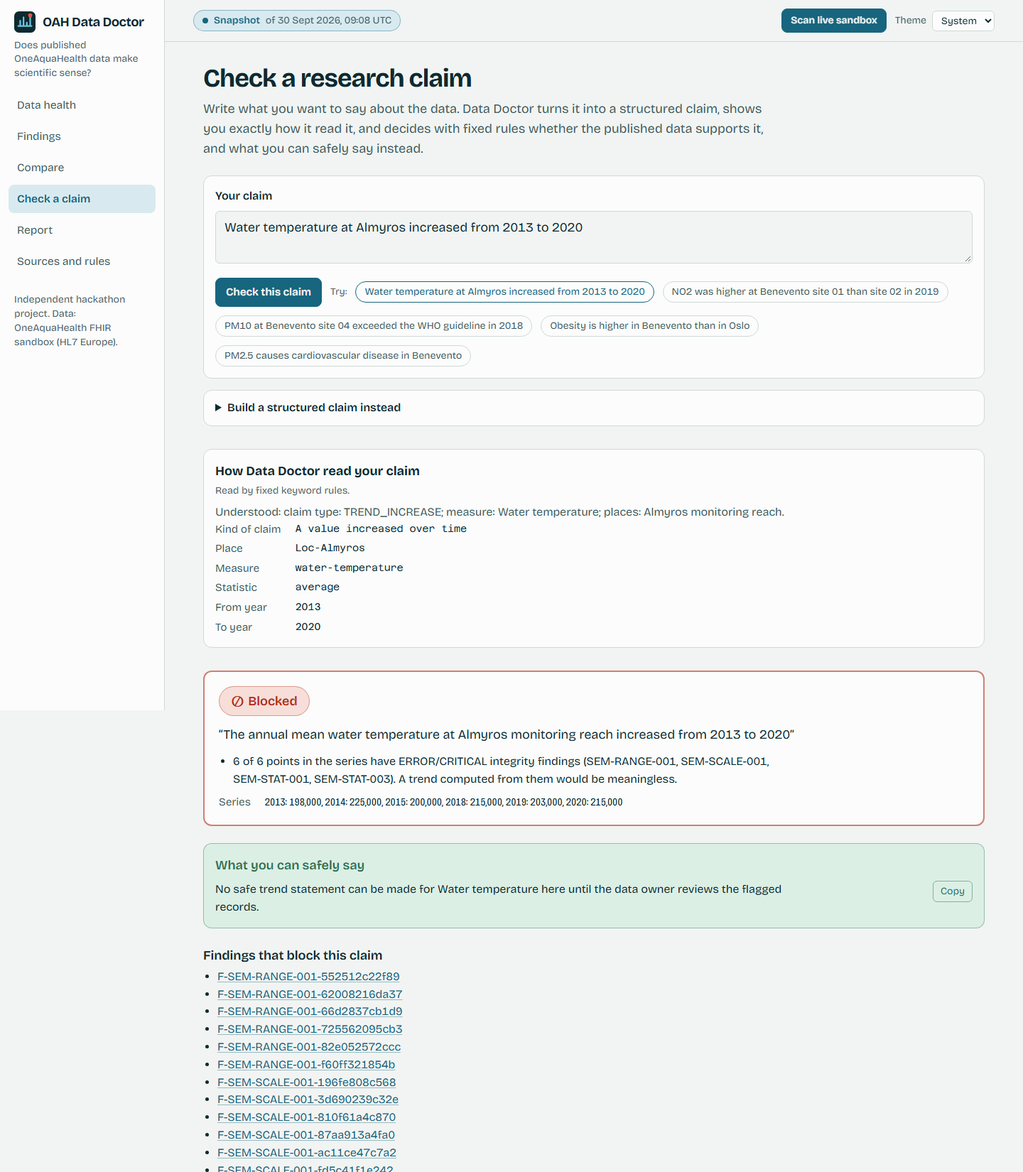
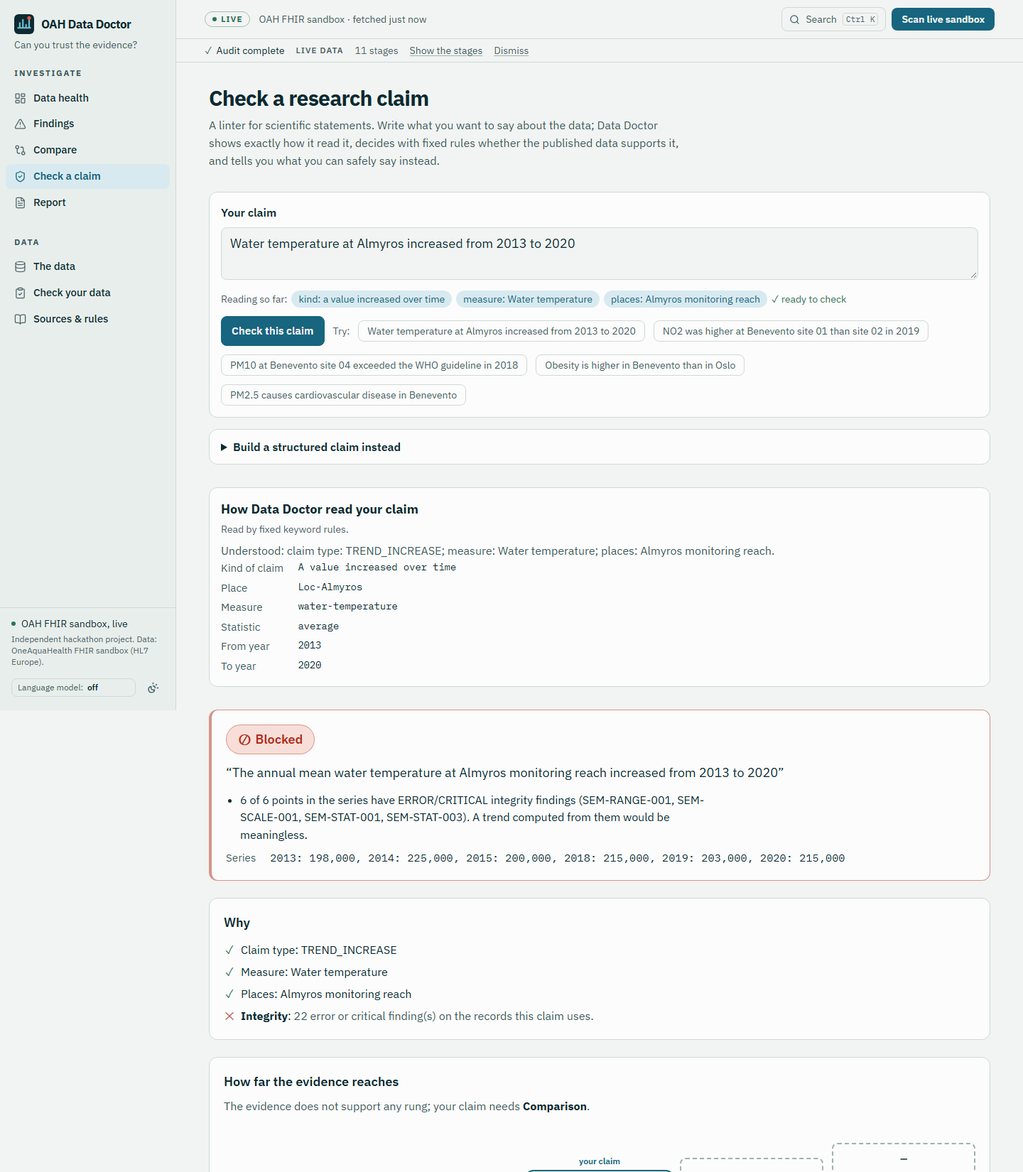
docs: final hardening: demo script, status, synced UI references
- DEMO_SCRIPT.md rewritten against the current screens: one story from the
  FHIR pass / Data Doctor flag to the report, about 4 minutes, language
  model off, exact chip and section names, words to avoid.
- STATUS.md: verification log of 2026-10-01 (tests, live and snapshot
  acceptance, live audit, hero record, reproducibility, no-model runs).
- 07: current Devpost requirements; the data-licence question is recorded
  as an open human decision, with a do-not-push note.
- README and AI_POLICY: the model control is in the sidebar; the evidence
  chain is described. README screenshots retaken from the current UI.

diff --git a/docs/DEMO_SCRIPT.md b/docs/DEMO_SCRIPT.md
@@ -1,26 +1,47 @@
-# Demo script (3–5 minutes)
+# Demo script (about 4 minutes)
 
-Setup: `python tasks.py run` (or `DD_SOURCE=snapshot` for a guaranteed offline demo). Browser at http://127.0.0.1:8321, 1440 px
-wide, light theme. Numbers on screen are computed; read them from the screen, do not memorise them.
+One story, in this order: **valid structure → scientific problem → proof → downstream impact → comparability → claim
+safety → report.** Start with the contradiction. No team introduction, logo, login, architecture or AI model on screen.
+
+Numbers in the "Say" column are what the screens showed on 2026-10-01 (live audit and snapshot gave the same results). They
+are computed on every scan, so **read them from the screen**; if a number differs, say what the screen says.
+
+## Before recording
+
+1. Start with the language model off, so nothing on screen depends on it:
+   `DD_LLM_PROVIDER=none python tasks.py run` (live, falls back to the snapshot automatically), or
+   `DD_SOURCE=snapshot DD_LLM_PROVIDER=none python tasks.py run` for a guaranteed offline take.
+2. Browser at http://127.0.0.1:8321, window 1440 × 900, zoom 100 %, dark theme. Wait until the strip under the top bar
+   says "Audit complete", then select **Dismiss**.
+3. Open a second tab on the scale finding of the same record: **Findings** → Rule **SEM-SCALE-001** → *Mean and median
+   differ by orders of magnitude* for *Water temperature, Almyros monitoring reach, 2013*. Go back to the first tab.
+
+## Script
 
 | Time | Screen | Say | Do |
 |---|---|---|---|
-| 0:00 | Data health | "This is a real record from the OneAquaHealth FHIR sandbox: a 2013 annual water temperature of 198,000 °C. The server's own FHIR validator says 'No issues detected'. FHIR checks that data has the right shape. Data Doctor checks whether it can be true." | Point at the two verdicts |
-| 0:25 | Magnitude ruler | "On a log scale the median, 19.8 °C, sits four decades away from the minimum, mean and maximum. Only the median is physically possible. A median can never lie outside its own minimum and maximum." | Hover the ruler |
-| 0:45 | Readout strip | "Across the sandbox, every official observation passes the server's validation. Data Doctor flags this many as unsafe to use as published." | Point at the readouts |
-| 1:00 | Finding detail | "Every finding shows the rule, the exact FHIRPath, the values, the constraint, and a confidence. Root cause: unknown. We never guess why." | Open the evidence |
-| 1:20 | Lineage | "The same numbers are already in the Implementation Guide's source spreadsheet, row by row. The problem predates FHIR conversion, which is exactly what the data owner needs to know." | Scroll to "Where these values first appear" |
-| 1:40 | Impact trace | "What would this record contaminate? The trace lists exactly which data sets, annual series, comparisons and claims use it. We only show what we actually compute; we never estimate." | Scroll to the trace |
-| 2:00 | Findings | "It is not one record. Filter by critical: impossible temperatures, pH values above 14, conductivity above that of brine. And some things FHIR can never know: PM2.5 above PM10 at the same site, although PM2.5 is part of PM10." | Click Critical; search "PM2.5" |
-| 2:30 | Compare | "Can we compare obesity in Benevento with Oslo? Women aged 35 to 74 against adults aged 18 to 29: not comparable. These are different people. Here are the Oslo cohorts that do overlap." | Pick the example chip |
-| 3:00 | Check a claim | "A researcher writes: water temperature at Almyros increased from 2013 to 2020. Blocked: every point in the series is broken. PM10 at Benevento site 04 exceeded the WHO guideline in 2018: supported, with the exact ratio and a caveat on data coverage. And 'PM2.5 causes cardiovascular disease': unsupported, and here is what you can say instead." | Use the example chips |
-| 3:40 | Report | "Everything exports as FHIR OperationOutcome, validated against R4, plus a researcher report and a table of what this data can and cannot support." | Open the HTML report |
-| 4:00 | Close | "Deterministic rules, no AI deciding anything, read-only access, every number computed, live or snapshot always labelled. Data Doctor: FHIR tells you whether data is shaped correctly; we tell you whether it makes sense." | Back to Data health |
+| 0:00–0:20 | **Data health** (`/`), top | "This is real OneAquaHealth data: the 2013 annual water temperature of the Almyros stream in Crete. Its average is 198,000 degrees Celsius. The FHIR server's own validator: no issues detected. Data Doctor: four findings on the same record. FHIR checks the shape. We check whether the evidence can be true." | Point at the headline, then at the two verdict panels: *FHIR server's own validator ✓ No issues detected during validation* and *OAH Data Doctor: 4 findings* |
+| 0:20–1:00 | **Data health**, *Dataset status*; then the **finding** page | "And it is not one record. 260 of 385 official records can be used as published. 125 are flagged, and all 125 pass the server's validation. Let's open the evidence. Minimum 185,000, maximum 211,000, and a median of 19.8. A median is the middle value of the same data. It can never be below its own minimum." | Scroll to *Dataset status*; point at *Flagged, yet server-valid: 125 of 125*. Scroll back up, select **Open the evidence for this record**. Point at step 1 *Observed* of the evidence chain |
+| 1:00–1:40 | **Finding** (SEM-STAT-001), *Evidence chain*; second tab (SEM-SCALE-001) | "Minimum divided by median: 9,343. The rule says minimum ≤ median ≤ maximum; here 19.8 is below 185,000, so it does not hold. Root cause: unknown. We never guess, and we never correct a value. On the same record, 198,000 divided by 19.8 is exactly 10,000, ten to the fourth. That fits a scale error, and we label it a hypothesis. The same numbers are in the Implementation Guide's source spreadsheet: the problem predates FHIR." | Point at steps 2–6. Switch to the second tab: point at *average / median = 198,000 / 19.8 = 10,000* and *exactly 10⁴*, then *Possible explanations, not verified*. Scroll to *Where these values first appear* (line 125) |
+| 1:40–2:10 | Same page, **What this affects** | "What does this record contaminate? Within the analyses Data Doctor computes, it feeds one data set, one indicator profile, two annual series, one comparison and two published claims. We show only dependencies we actually compute. Nothing is estimated." | Scroll to *What this affects*; select the claim box *median water temperature …*; point at *Depends on* and *Used by* |
+| 2:10–2:50 | **Compare** (`/compare`) | "Can obesity in Benevento be compared with Oslo? Women aged 35 to 74 against adults aged 18 to 29. Unit, period and aggregation are direct; measure and method are conditional; population is not comparable. These are different people. What you can do instead: compare with the Oslo cohorts whose ages overlap. And Almyros 2013 against 2014: comparable in principle, but blocked until the data owner reviews the records." | Select the chip *Obesity prevalence: Benevento monitoring site 01, Female, 35-74 y, 2024 vs Nordre Aker, 18-29 y, 2024*; point down the *Comparability matrix*, then *What you can do instead*. Select the chip *Water temperature: Almyros monitoring reach, 2013 vs … 2014* → *Blocked by integrity findings* |
+| 2:50–3:30 | **Check a claim** (`/claims`) | "Now a researcher's sentence. 'Water temperature at Almyros increased from 2013 to 2020.' Blocked: the series is built on flagged records, so no safe trend statement can be made yet. 'PM2.5 causes cardiovascular disease in Benevento.' Unsupported: the evidence reaches description; the claim needs causation. And here is what you can safely say instead." | Select the example *Water temperature at Almyros increased from 2013 to 2020*; point at *Blocked* and *What you can safely say*. Select *PM2.5 causes cardiovascular disease in Benevento*; point at the evidence ladder and *What you can safely say* |
+| 3:30–4:00 | **Report** (`/report`) | "Everything ends in an evidence integrity report: dataset, source, live or snapshot, audit time, every rule applied, and provenance down to the record hash. It exports as FHIR OperationOutcome, validated against R4. The same audit runs offline from a sha256-verified snapshot and gives the same findings. Deterministic rules, read-only, no AI deciding anything. FHIR tells you the data is well formed. Data Doctor tells you whether it makes scientific sense." | Point at the header (*Dataset, Source, Mode, Audit timestamp*), the contents list, then scroll to *7 Provenance* and *9 Technical appendix* |
 
-## Fallback path
+Narration is about 410 words: about 3 minutes of speech at 140 words a minute, plus about 45 seconds of clicking, scrolling
+and pauses, so about 4 minutes. **Not yet rehearsed with a stopwatch**: time one take and trim the 1:00–1:40 segment first if it
+runs long.
 
-- If the sandbox is down: the app shows the latest verified snapshot with a banner, and the script is unchanged. Say
-  "we are on the verified snapshot from <date>".
-- If the browser fails: `python tools/oah_audit.py audit --source snapshot` prints the full summary; open
-  `/api/reports/report.html` or `docs/GATE0_REPORT.md`.
-- Pre-recorded screenshots: `docs/img/`.
+## Words to use and to avoid
+
+- Say "flagged", "cannot all be right as published", "root cause unknown", "consistent with a scale error (hypothesis)".
+- Never say "the correct value is 19.8 °C", "the data is corrupted", "a typo", or that Data Doctor "fixed" anything.
+- Never say "AI found" or "AI decided": no model decides a finding or a verdict. Keep the language model off in the recording.
+
+## Fallback
+
+- **Sandbox down:** the app opens on the latest verified snapshot and says so in the top bar ("Snapshot", capture time,
+  "sha256 verified") with a banner. The script is unchanged; say "we are on the verified snapshot from <date>".
+- **Browser fails:** `python tools/oah_audit.py audit --source snapshot` prints the full summary (findings by rule, the
+  anchor's values, 125/125 server-valid); `/api/reports/report.html` opens the report.
+- **Screenshots:** `docs/img/`.

diff --git a/docs/STATUS.md b/docs/STATUS.md
@@ -1,44 +1,77 @@
 # Status
 
-Updated 2026-09-30. Numbers are in docs/numbers.json (rendered from the snapshot) and docs/EVALUATION.md.
+Updated 2026-10-01 (final hardening). Rendered numbers are in docs/numbers.json (from the committed snapshot) and
+docs/EVALUATION.md; the verification log below records what was run today and what it returned.
 
 ## Phases
 
 | Phase | State | Evidence |
 |---|---|---|
 | Discovery D1–D8 | Done | docs/DISCOVERY.md (requests, timestamps, excerpts) |
-| P0 Repo, tooling, Gate 0 | Done, **human sign-off pending** | docs/GATE0_REPORT.md: the gate criterion (≥ 10 distinct official resources with ERROR/CRITICAL findings) and the independent re-derivation of the 20 samples are printed there. Needs a human verdict per sample (≥ 80 % true positives) |
+| P0 Repo, tooling, Gate 0 | Done, **human sign-off pending** | docs/GATE0_REPORT.md: gate criterion met (123 distinct official resources with ERROR/CRITICAL findings, threshold 10); 20 of 20 samples re-derived from the raw JSON by separate code. Needs a human verdict per sample (≥ 80 % true positives) |
 | P1 Ingestion and normalisation | Done | Read-only async client, paging, retry, SQLite cache, verified snapshots, live/snapshot/auto; tests |
-| P2 Rules engine | Done | Every rule in docs/04_RULES_CATALOG.md, tests first, positive/negative/edge per rule, property tests; anchor fires SEM-STAT-001, SEM-STAT-003, SEM-SCALE-001, SEM-RANGE-001 |
+| P2 Rules engine | Done | Every rule in docs/04_RULES_CATALOG.md, tests first, positive/negative/edge per rule, property tests |
 | P3 Dependency graph and trace | Done | Exact trace for the anchor; counts change when data change (tested) |
 | P4 Comparability | Done | Eight dimensions; golden cases pass |
-| P5 Claim guardrail | Done | Five claim types; every verdict path tested; reasons, trace, blocking findings, safe wording |
+| P5 Claim guardrail | Done | Five claim types; every verdict path tested; evidence ladder computed by the engine |
 | P6 Reporting and FHIR export | Done | OperationOutcome valid against the R4 schema and HAPI (docs/VALIDATION.md); JSON, Markdown, HTML, support table |
-| P7 UI | Done | Seven screens; Playwright demo path offline; axe-core WCAG 2.1 AA clean in light and dark |
+| P7 UI | Done | Investigation console; every finding opens with its evidence chain (D-029); axe-core WCAG 2.1 AA clean in light and dark |
 | P8 Evaluation and hardening | Done | docs/EVALUATION.md; snapshot fallback with banner; logging |
-| P9 Docs and submission | Done, needs the owner's final steps | README, docs/SUBMISSION.md, docs/DEMO_SCRIPT.md, 01–07, specs, decisions |
+| P9 Docs and submission | Done, needs the owner's final steps | README, docs/SUBMISSION.md, docs/DEMO_SCRIPT.md (rewritten 2026-10-01 against the current screens), 01–07, specs, decisions |
 
-## Test status
+## Verification log, 2026-10-01
 
-Backend: all tests pass (`python tasks.py test`), ruff and mypy clean. UI: all Playwright tests pass (`python tasks.py e2e`),
-TypeScript strict mode clean.
+All results below come from runs made on 2026-10-01; none is carried over from earlier days.
+
+| Check | Command | Result |
+|---|---|---|
+| Backend tests | `python tasks.py test` | 258 passed, coverage 91 % |
+| Lint and types | `python tasks.py lint` | ruff clean; mypy clean (49 files); TypeScript strict clean |
+| Snapshot integrity | `python tools/oah_audit.py verify-snapshot` | `2026-09-30T09-08-55Z`: every file matches its sha256 |
+| Production build | `vite build` (in `python tasks.py e2e`) | built; JS 461 kB (137 kB gzip), CSS 50 kB |
+| Browser and accessibility | `python tasks.py e2e` | 34 passed, 1 skipped (the phone-drawer test does not apply to the desktop project); axe: no serious or critical violation on any page |
+| Acceptance, snapshot (offline, no language model) | `DD_SOURCE=snapshot DD_LLM_PROVIDER=none python tasks.py run` + `python tasks.py acceptance` | 90/90 checks passed |
+| Acceptance, live (owner's configuration) | `python tasks.py run` + `python tasks.py acceptance` | 91/91 checks passed (live run fetched 10:54:03 UTC) |
+
+**Live audit** (run `run-20261001T105408Z-a41061`, source `https://sandbox.hl7europe.eu/oneaquahealth/fhir`, fetched
+2026-10-01T10:54:03Z): 450 observations (385 official), 346 findings (125 critical, 212 error, 9 warning), 260 of 385 official
+records usable as published, 125 of 125 flagged official observations pass the server's own `$validate`.
+
+**Hero record**, read directly at 2026-10-01T10:56:29Z: `Observation/Obs-Almyros-TemperatureWater-2013`, versionId 1,
+lastUpdated 2025-11-15T15:39:36.751+00:00. `Observation.component[0..4].valueQuantity`: average 198000, maximum 211000,
+minimum 185000, std-dev 18385, median 19.8 (UCUM `Cel`). `GET …/$validate`: information, "No issues detected during
+validation". Findings: SEM-STAT-001 (critical; minimum / median = 185,000 / 19.8 = 9,343.4343), SEM-SCALE-001 (average /
+median = 198,000 / 19.8 = 10,000, exactly 10⁴), SEM-STAT-003, SEM-RANGE-001. Root cause: unknown.
+
+**Reproducibility**: a fresh snapshot (`2026-10-01T10-56-45Z`, taken into a scratch folder outside the repository, sha256
+verified) audited with no language model gives the same 346 findings (same ids, severities, rules and resources), the same
+calculation for every finding, the same verdicts for all 17 catalog comparisons and claims, and the same server-validation
+summary as the committed snapshot. The live audit and both snapshots agree.
+
+**Without the language model**: with `DD_LLM_PROVIDER=none`, and with Ollama configured but unreachable, the findings,
+calculations and verdicts are unchanged; explanations fall back to the template with the reason shown, and claims are read
+by the keyword rules (the trend claim is Blocked, the causal claim Unsupported).
 
 ## Open items (owner)
 
-1. Human review and sign-off of the 20 samples in docs/GATE0_REPORT.md.
-2. Record the demo video (docs/DEMO_SCRIPT.md).
-3. Push to a public repository and fill the links in docs/SUBMISSION.md.
-4. Optionally take a fresh snapshot on submission day (`python tasks.py snapshot`, then `python scripts/render_docs.py`).
+1. **Licence of the OneAquaHealth data in the repository: UNVERIFIED** (docs/07_DEMO_AND_SUBMISSION.md, "Open question").
+   Do not push until the organisers answer whether sandbox data may be redistributed.
+2. Confirm eligibility (the Devpost overview says "students only").
+3. Human review of the 20 samples in docs/GATE0_REPORT.md.
+4. Time one rehearsal and record the demo video (docs/DEMO_SCRIPT.md, about 4 minutes).
+5. After the licence answer: push, add the video link to docs/SUBMISSION.md, submit on Devpost (deadline 2026-10-04 21:00 PDT).
 
 ## Risks
 
 | Risk | Mitigation |
 |---|---|
+| Data licence not confirmed before the deadline | Ask the organisers now; the alternatives are listed in docs/07 (no snapshot in the repository, or a private repository) |
 | Sandbox offline during judging (it was offline for a week in September) | Snapshot-first startup and automatic verified fallback with a banner; demo works offline |
 | Third parties change sandbox data | Live runs are timestamped and hashed; the committed snapshot reproduces every published number |
-| Lighthouse score not measured | axe-core (the engine behind Lighthouse's accessibility audits) runs in CI with zero serious or critical violations; a Lighthouse run was not performed |
+| Judges cannot click a hosted demo | Video and repository; no hosted instance (would need the owner's approval) |
+| Lighthouse score not measured | axe-core (the engine behind Lighthouse's accessibility audits) runs in CI with zero serious or critical violations |
 | Hand-transcribed OAH profile constraints | Sources cited per profile; re-derive when the IG is republished |
 
 ## Decisions
 
-See docs/DECISIONS.md (D-001 … D-021).
+See docs/DECISIONS.md (D-001 … D-029).

diff --git a/docs/07_DEMO_AND_SUBMISSION.md b/docs/07_DEMO_AND_SUBMISSION.md
@@ -1,23 +1,51 @@
 # 07 — Demo and submission
 
-## Submission requirements (Devpost, read 2026-09-30)
+## Submission requirements (Devpost, re-read 2026-10-01)
 
-- Public code repository with source and documentation: this repository.
-- Track alignment statement, project description (problem, solution, users, impact), working prototype, 3–5 minute demo video.
-- Deadline: 2026-10-04, 21:00 PDT.
+Source: https://oneaquahealth-ieee-hackathon.devpost.com/ (overview, rules and updates pages).
+
+- **Deadline:** 2026-10-04, 21:00 PDT (extended from 30 September; the rules page still shows the old date, the updates page
+  announces the extension).
+- **Required:** track alignment statement; project description (problem, solution, target users, expected impact); demo video
+  of 3–5 minutes; public code repository with source and documentation; working prototype, mockup or proof of concept.
+- **Rules:** original work built during the hackathon period; no copyright, licensing or third-party IP violations; every
+  participant registered on Devpost. No explicit AI-disclosure clause was found; we disclose anyway.
+- **Eligibility:** the overview lists "students only". The extension update allows individuals and teams. UNVERIFIED for this
+  project: the owner must confirm student status.
+- **Judging:** impact and alignment with the OneAquaHealth mission 30 %, innovation 20 %, technical implementation 20 %,
+  usability 15 %, feasibility and scalability 15 % (rules page; 1–10 per criterion, weighted).
+
+## Open question before publishing (human decision)
+
+The repository contains OneAquaHealth data, in its files and in its git history:
+
+- the sandbox snapshot under `data/snapshots/` (561 resources and 385 validation outcomes, 4.1 MB), which the offline demo,
+  the tests and CI read;
+- files derived from the IG source under `knowledge/oah/`, including a copy of the IG's source spreadsheet
+  `upstream/Almyros_gov_chem_analysis.csv` (used for lineage);
+- raw value excerpts in docs/GATE0_REPORT.md.
+
+The licence of that data is **UNVERIFIED** (docs/DISCOVERY.md D8: the IG's `sushi-config.yaml` has its licence line commented
+out, and the IG repository has no LICENSE file).
+
+- Do **not** push the repository to the public remote until the organisers answer whether sandbox data may be redistributed.
+- Do not commit a new snapshot either (it would add more raw sandbox data to the history).
+- If redistribution is not allowed, the options need a decision: a repository without the snapshot (users then capture their
+  own with `python tasks.py snapshot`; tests and CI that read the snapshot would have to change), or a private repository
+  shared with the judges, if the organisers accept that.
 
 ## Checklist
 
-- [ ] Human reviewer signs off the 20-finding sample in docs/GATE0_REPORT.md (regenerate first: `python tasks.py gate0`).
-- [ ] `python tasks.py snapshot` shortly before recording, if the sandbox is reachable, then `python scripts/render_docs.py`
-      (README and docs/SUBMISSION.md numbers come from the latest snapshot) and commit.
+- [ ] Organisers' answer on redistributing sandbox data (above). Ask on the Devpost discussion board or the OneAquaHealth Slack.
+- [ ] Owner confirms eligibility (students only).
+- [ ] Human reviewer marks the 20-finding sample in docs/GATE0_REPORT.md (true or false positive for each).
 - [ ] Fresh-clone test: `git clone … && python tasks.py setup && python tasks.py test && python tasks.py run`, then in a
       second terminal `python tasks.py acceptance` (every endpoint against its expected outcome; exit 0 = all passed).
-- [ ] Offline test: disconnect the network, `DD_SOURCE=snapshot python tasks.py run`, walk the demo script.
-- [ ] Record the video following docs/DEMO_SCRIPT.md (3–5 minutes).
-- [ ] Push to a public GitHub repository; replace the placeholder rules canonical URL (DECISIONS D-009) if desired.
-- [ ] Paste docs/SUBMISSION.md into Devpost; add the repository URL, video URL and screenshots from docs/img/.
-- [ ] Confirm the AI-disclosure wording against the hackathon rules page on submission day.
+- [ ] Offline test: disconnect the network, `DD_SOURCE=snapshot python tasks.py run`, walk docs/DEMO_SCRIPT.md.
+- [ ] Record the video following docs/DEMO_SCRIPT.md (about 4 minutes; language model off; time one rehearsal first).
+- [ ] After the licence answer: push, then confirm the repository URL in docs/SUBMISSION.md (already filled in:
+      https://github.com/Unknown1502/OAH-Data-Doctor) and add the video link.
+- [ ] Paste docs/SUBMISSION.md into Devpost; add screenshots from docs/img/.
 
 ## Documents
 

diff --git a/README.md b/README.md
@@ -55,7 +55,9 @@ to use as published. We report what was observed. We do not claim to know why an
   \|mean − median\| ≤ SD, SD ≤ range/√2), and domain knowledge (physical limits, subset relations, cohort partitions,
   terminology). Every value is compared within half a unit of its last published decimal, so rounding alone never raises a finding.
   Each finding shows the exact FHIRPath, the values, the broken constraint, a confidence, the server's own verdict for the same
-  record and, where available, the source-spreadsheet row it came from.
+  record and, where available, the source-spreadsheet row it came from. Its page opens with an evidence chain that writes the
+  arithmetic out so it can be checked by hand: observed values, calculation (for the anchor, average / median =
+  198,000 / 19.8 = 10,000, exactly 10⁴), result, rule broken, conclusion, and root cause: unknown.
 - **Trace.** A dependency graph from each record to the data sets, annual series, comparisons and claims Data Doctor actually
   computes, including the ones a user ran. It never estimates impact. For the anchor record: "Within the analyses Data Doctor computes, this record feeds 1 library, 1 profile, 2 series, 1 comparison, 2 claims."
 - **Compare.** Measure identity (with an explicit concept map), unit (explicit conversion table), medium, population (sex and
@@ -132,9 +134,9 @@ More: [architecture](docs/03_ARCHITECTURE.md), [rules catalog](docs/04_RULES_CAT
 
 ## Evidence that it works
 
-- **249 backend tests** (unit tests for every rule with positive, negative and edge cases; Hypothesis property
+- **258 backend tests** (unit tests for every rule with positive, negative and edge cases; Hypothesis property
   tests; contract tests against the published JSON Schemas and the FHIR R4 schema; API and snapshot integration tests) and
-  **34 Playwright tests** (desktop, plus a phone viewport for the home page and a no-sideways-scroll check of every page). The Playwright tests cover the demo path with all external network blocked, plus
+  **35 Playwright tests** (desktop, plus a phone viewport for the home page and a no-sideways-scroll check of every page). The Playwright tests cover the demo path with all external network blocked, plus
   axe-core WCAG 2.1 AA scans of every main page in light and dark mode. CI runs ruff, mypy, pytest and Playwright.
 - **Property tests.** Summaries of randomly generated real samples, rounded at 0–4 decimals, never trigger a statistical-identity
   rule. This is the false-positive guarantee behind the precision tolerance.
@@ -169,7 +171,8 @@ python tasks.py run        # http://127.0.0.1:8321  (live sandbox, falls back to
 - Optional free language model: install [Ollama](https://ollama.com), run `ollama pull qwen2.5:3b`, and set
   `DD_LLM_PROVIDER=ollama` in `.env`. A "Rephrase" button then appears on each finding. Free hosted endpoints work with
   `DD_LLM_PROVIDER=openai-compatible` (see `.env.example`); Claude with `DD_LLM_PROVIDER=anthropic`.
-- Bring your own key: anyone using the console can choose **Language model** at the top of any page, pick a provider (Groq,
+- Bring your own key: anyone using the console can open **Language model** at the bottom of the sidebar (in the menu on a
+  phone), pick a provider (Groq,
   Google Gemini, OpenRouter and Mistral have free tiers) and paste their own key. The key stays in their browser and is sent
   only with their own requests; the server never stores or logs it.
 

diff --git a/docs/AI_POLICY.md b/docs/AI_POLICY.md
@@ -15,7 +15,8 @@
   All calls use temperature 0. Small free models are less reliable, so correctness never depends on model quality: every
   output passes the deterministic guards below, or it is discarded.
 - **Bring your own key.** Anyone using the console can pick a provider and paste their own key under "Language model" at
-  the top of every page (Groq, Google Gemini, OpenRouter, Mistral, OpenAI, Claude, or the local Ollama). The key:
+  the bottom of the sidebar, or in the menu on a phone (Groq, Google Gemini, OpenRouter, Mistral, OpenAI, Claude, or the
+  local Ollama). The key:
   - stays in that browser (this tab only by default; "Remember on this device" keeps it in local storage) and can be
     forgotten with one click;
   - is sent only with that user's own requests to this Data Doctor server, which uses it for that one call and drops it;

diff --git a/docs/SUBMISSION.md b/docs/SUBMISSION.md
@@ -152,7 +152,7 @@ rephrases computed findings: any number, cause or correction it adds is detected
 
 - 271 of 271 injected faults detected (95 % CI 98.6–100.0 %), and 0 new findings on
   100 records after benign transformations. We say plainly that this measures rule sensitivity, not real-world accuracy.
-- 249 backend tests and 34 end-to-end tests, including offline runs and WCAG 2.1 AA accessibility checks.
+- 258 backend tests and 35 end-to-end tests, including offline runs and WCAG 2.1 AA accessibility checks.
 - Our FHIR output validates against R4 (0 schema errors; HAPI: no issues).
 - Honesty by construction: no hand-typed numbers (these documents are rendered from a run), root cause always "unknown",
   read-only access, and live and snapshot data always labelled.
